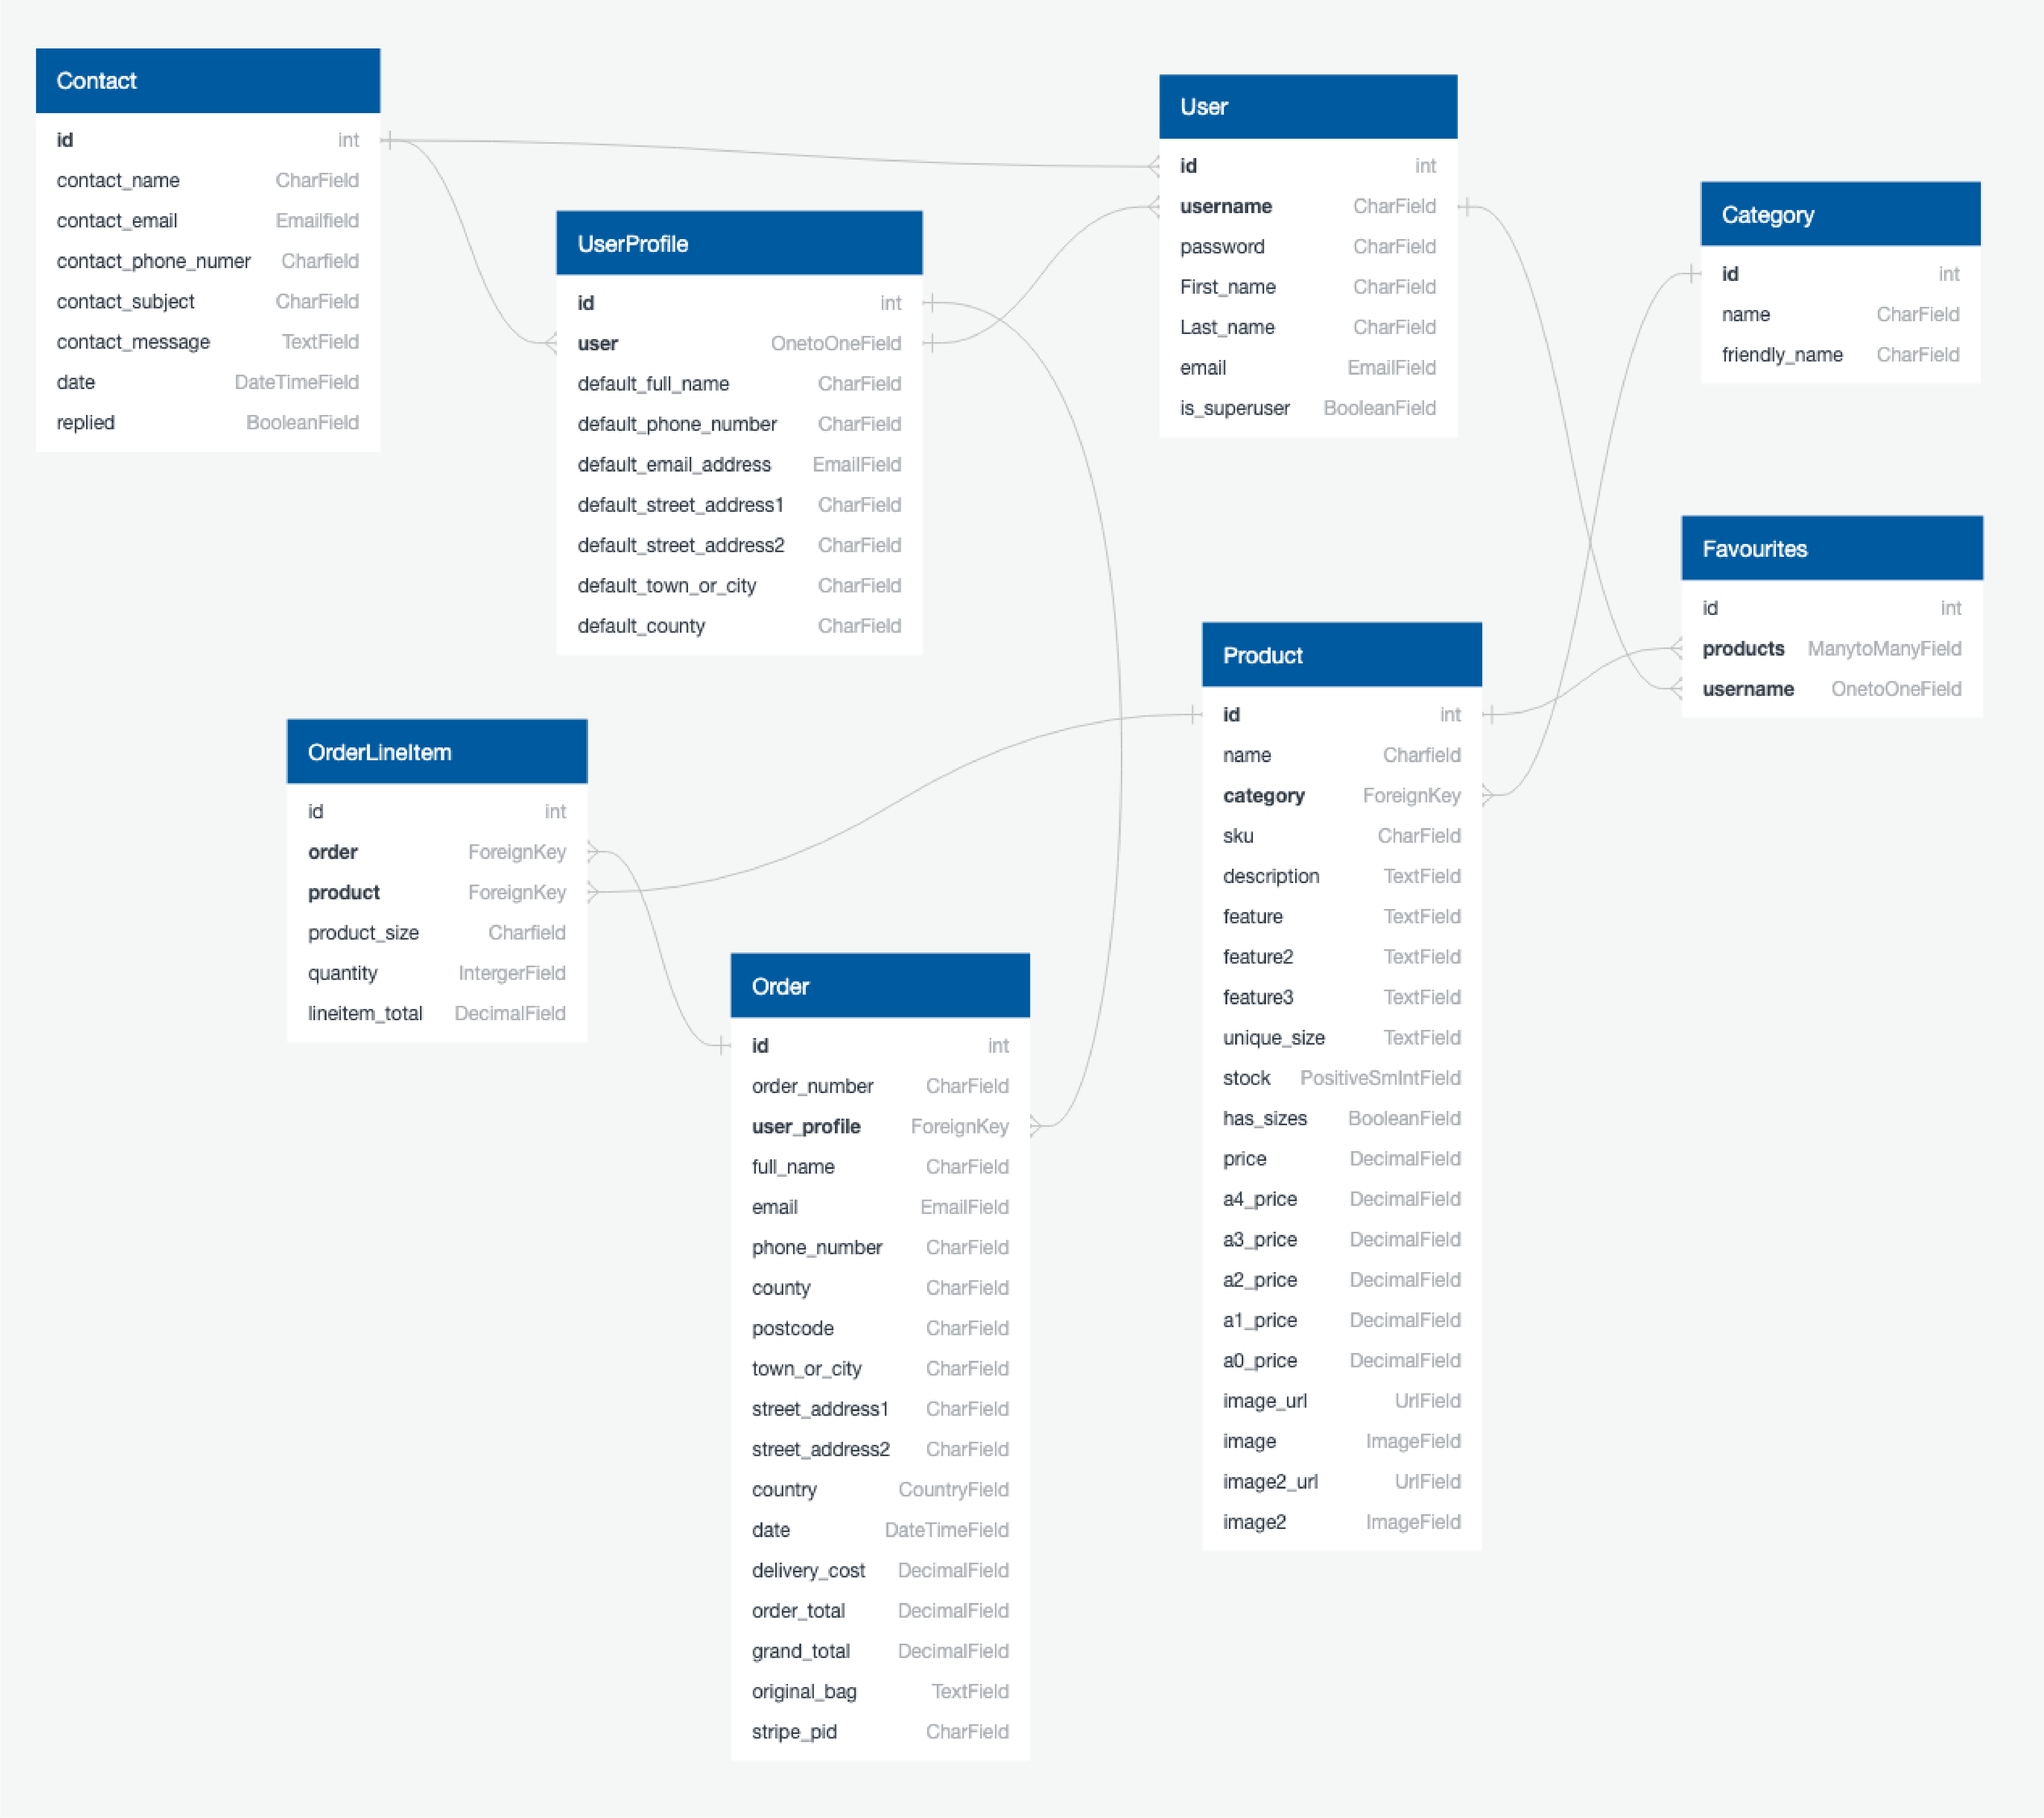
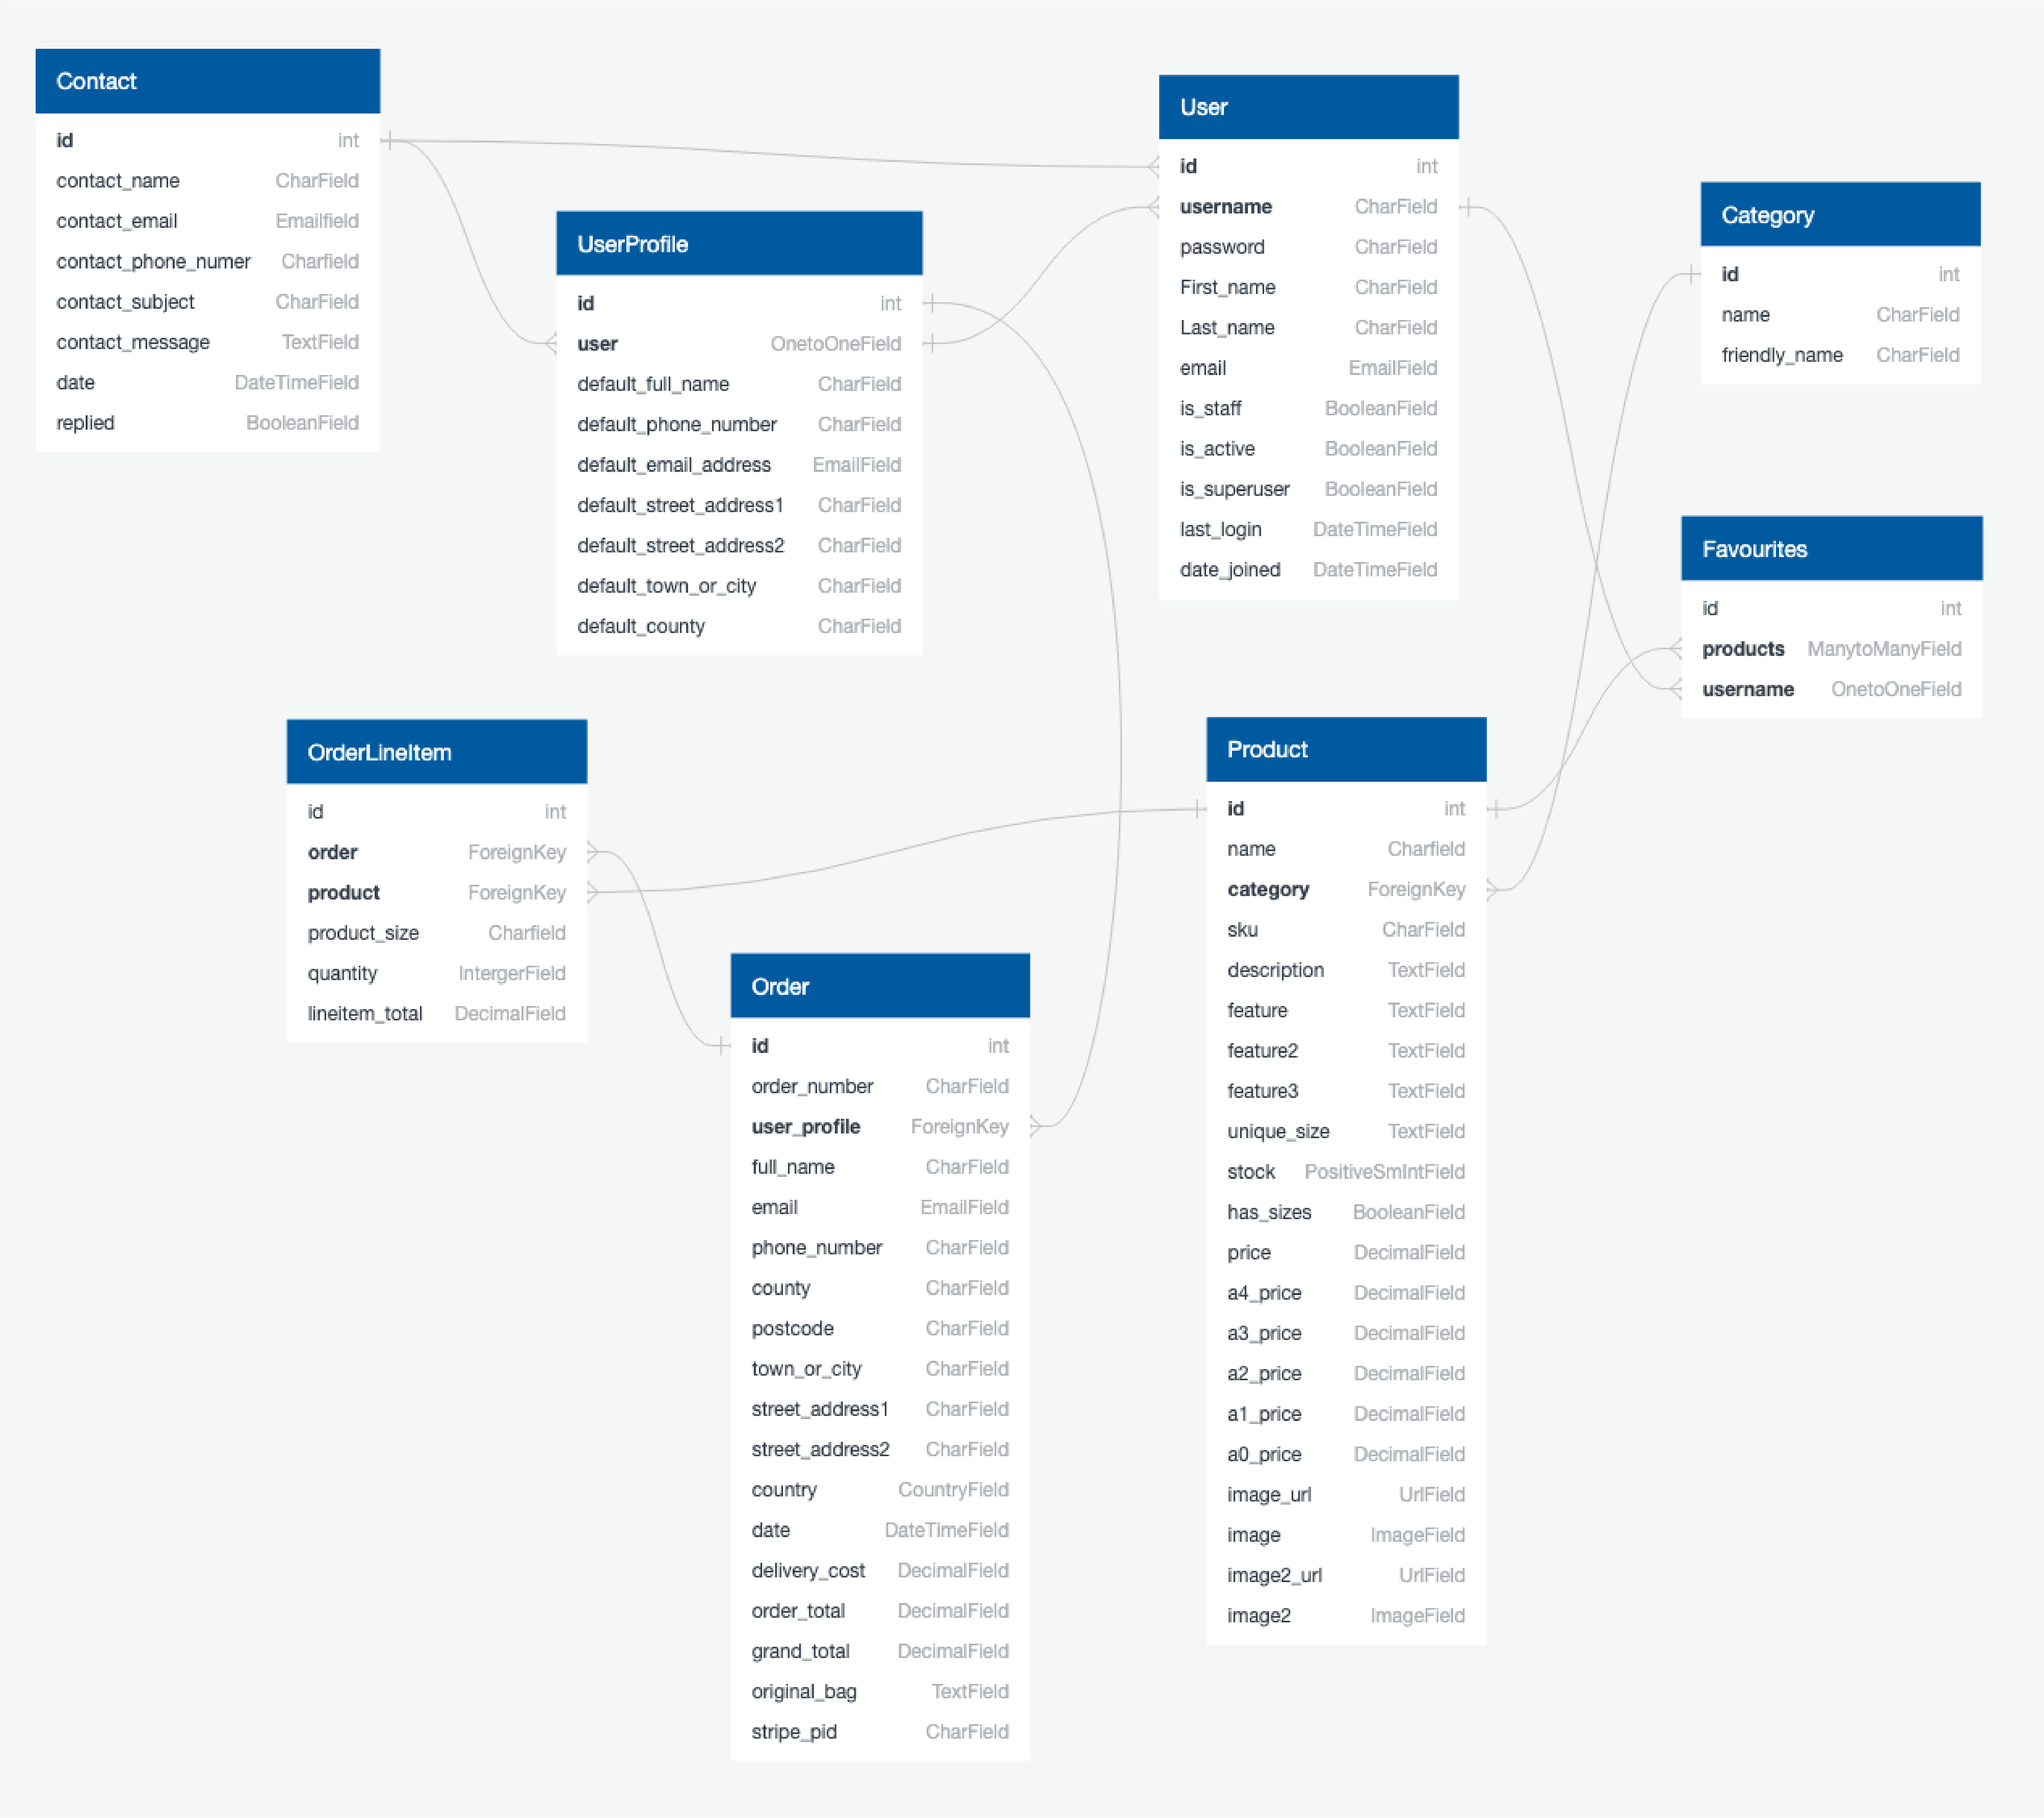
README: Add models detail section

Changed region(s): [[0.5906, 0.2178, 0.746, 0.9024], [0.6528, 0.1556, 0.7149, 0.1867]]

diff --git a/README.md b/README.md
@@ -179,6 +179,49 @@ _ _ _
 This model contains all fields stored in the database collections with their data type and mimics the structure of what is actually stored in the Postgres database
 <br>![Database model](documentation/images/database_schema.png)
 
+#### Models
+_ _ _ 
+
+##### User Model
+- The User model contains information about the user. It is part of the Django allauth library
+- The model contains the following fields: username, password, first_name, last_name, email, is_staff, is_active, is_superuser, last_login, date_joined
+
+##### UserProfile Model
+- The UserProfile model has a one-to-one relationship with User
+- The model contains the following fields: default_full_name, default_email, default_phone_number, default_street_address1, default_street_address2
+default_town_or_city, default_county, default_postcode and default_country
+
+##### Order Model
+- The Order model contains information about orders made on the website.
+- It contains UserProfile as a foreign-key.
+- The model contains the following fields: order_number, user_profile, full_name, email, phone_number, country, postcode, town_or_city, street_address1, street_address2, county, date, delivery_cost, order_total, grand_total, original_bag, stripe_pid
+
+##### OrderLineItem Model
+- The OrderLineItem model contains information about an entry in an order, for orders made on the website.
+- It contains Order and Product as foreign-keys.
+- The model contains the following fields: order, product, product_size, quantity, lineitem_total
+
+##### Favourites Model
+- The Favourites model contains a users favourite products
+- It contains Products as many-to-many field, and User as a one-to-one relationship
+- The model contains the following fields: products, username
+
+##### Product Model
+- The Product Model represents a poster and its details
+- It contains Category as a foreign-key
+- The model contains the following fields: name, category, sku, description, feature, feature2, feature3, unique_size, stock, has_sizes, price, a4_price, a3_price, a2_price, a1_price, a0_price image_url, image, image2_url, image2
+- The image fields contains the poster image(s)
+- The image_url field contains the url to where the image file is physically stored, for example AWS S3 bucket
+
+##### Category Model
+- The Category model contains a product category
+- The model contains the following fields: name, friendly_name
+
+##### Contact Model
+- The Contact model presents a contact form
+- The model contains the following fields: contact_name, contact_email, contact_phone_number, contact_subject, contact_message, date, replied
+
+
 ### User Goals
 - Play both games that are fun and engaging.
 - Easily find the rules of each game.
